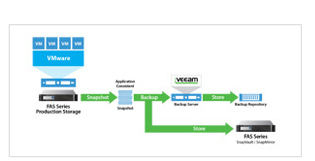
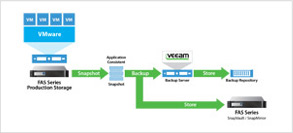
~70%

Changed region(s): [[0.0614, 0.0902, 0.9215, 0.9023], [0.0, 0.0, 1.0, 1.0]]

diff --git a/index.html b/index.html
@@ -78,26 +78,30 @@
       <div class="features_integration">
         <div class="container">
           <h2 id="anchor_integration">Explore the benefits of Veeam integration with NetApp</h2>
-          <p>Veeam’s enterprise-level, near-continuous data protection (near-CDP) delivers the best recovery time and point objectives (RTPO<sup>™</sup>) for all applications in VMware vSphere environments. The combination of NetApp’s low RPO capabilities and Veeam’s low RTO enablement allows users to:</p>
+          <p>Veeam’s <b>enterprise-level, near-continuous data protection (near-CDP)</b> delivers the best recovery time and point objectives (RTPO<sup>™</sup>) for all applications in VMware vSphere environments. The combination of NetApp’s <b>low RPO</b> capabilities and Veeam’s <b>low RTO</b> enablement allows users to:</p>
           <div class="features_column">
             <ul>
               <li>Create backups from storage snapshots up to <b>20 times faster</b> than competitive offerings</li>
               <li>Improve DR protection by creating instant, secondary backups from storage snapshots</li>
             </ul>
-            <a class="preview_image" href="http://img.veeam.com/product_pages/v8/netapp_2_t.jpg">
-              <figure>
-                <img src="img/img_preview_001.jpg" width="315" height="161" alt="Components of a Veeam backup with FAS storager">
-                <figcaption>Components of a Veeam backup <br> with FAS storager</figcaption>
-              </figure>
-            </a>
-          </div>
+          </div>  
           <div class="features_column">
             <ul>
               <li>Recover individual items or entire VMs quickly and efficiently from <b>NetApp Snapshot<sup>®</sup></b>, <b>SnapMirror<sup>®</sup></b> and <b>SnapVault<sup>®</sup></b> with <b>Veeam Explorer<sup>™</sup> for Storage Snapshots</b></li>
             </ul>
+          </div>  
+          <div class="img_wrap">
+            <a class="preview_image" href="http://img.veeam.com/product_pages/v8/netapp_2_t.jpg">
+              <figure>
+                <img src="img/img_preview_001.jpg" width="293" height="133" alt="Components of a Veeam backup with FAS storager">
+                <figcaption>Components of a Veeam backup <br> with FAS storager</figcaption>
+              </figure>
+            </a>
+          </div> 
+          <div class="img_wrap">
             <a class="preview_image" href="http://img.veeam.com/product_pages/v8/netapp_1_t.jpg">
               <figure>
-                <img src="img/img_preview_002.jpg" width="315" height="161" alt="Veeam Explorer for Storage Snapshots">
+                <img src="img/img_preview_002.jpg" width="293" height="133" alt="Veeam Explorer for Storage Snapshots">
                 <figcaption>Veeam Explorer for Storage Snapshots</figcaption>
               </figure>
             </a>
@@ -115,58 +119,68 @@
               <li><b>A cloud ready platform</b> that enhances data availability by providing an efficient way to get backups off site to a service provider</li>
             </ul>
           </div>
-          <a class="preview_image" href="http://img.veeam.com/product_pages/v8/netapp_3.jpg">
+          <a class="preview_image big_preview" href="http://img.veeam.com/product_pages/v8/netapp_3.jpg">
             <figure>
               <img src="img/img_preview_003.jpg" width="911" height="315" alt="Ready for the Cloud">
               <figcaption>Ready for the Cloud</figcaption>
             </figure>
           </a>
-          <a class="link sprite_logo_link_video" href="http://fast.wistia.net/embed/iframe/w5k601c6f6?popover=true&ad=in-text-link">Watch video on how Veeam integrates with NetApp</a>
+          <div class="link_wrap">
+            <a class="link sprite_logo_link_video" href="http://fast.wistia.net/embed/iframe/w5k601c6f6?popover=true&ad=in-text-link">Watch video on how Veeam integrates with NetApp</a>
+          </div>
         </div>
       </div>
       <div class="features_backup">
         <div class="container">
           <h2 id="anchor_backup">Perform fast backups from NetApp Storage Snapshots</h2>
-          <div class="text_section">
-            <h3>Dramatically improve vSphere backup</h3>
+          <div class="text_section clearfix">
             <a class="preview_image" href="http://img.veeam.com/product_pages/v8/screenshots/220_san_snapshot_hl.png">
               <figure>
                 <img src="img/img_preview_004.jpg" width="292" height="266" alt="A job keeps a VM snapshot for only a brief moment, which results in instant VM snapshot commit">
                 <figcaption>A job keeps a VM snapshot for only a brief moment, which results in instant VM snapshot commit</figcaption>
               </figure>
-            </a>
-            <p>Taking VMware vSphere snapshots can produce a serious burden on virtual machine (VM) performance, and it can take considerable effort by administrators to overcome this technical challenge and meet the required SLAs.</p>
-            <p>Veeam dramatically improves this process, providing built-in integration with your production storage, leveraging storage snapshot functionality to reduce the impact on the environment from vSphere snapshot removal during backup and replication.</p>
-            <p>Don’t be stuck with once-a-day backups for I/O intensive workloads—make backups and replicas as often as every 15 minutes!</p>
-            <a class="link sprite_logo_link_video" href="http://fast.wistia.net/embed/iframe/w5k601c6f6?popover=true&ad=in-text-link">Watch video on how Veeam integrates with NetApp</a>
-            <a class="link sprite_logo_link_video" href="#">Watch video about Veeam solution for HP StoreVirtual VSA</a>
+            </a> 
+            <div class="text_wrap">
+              <h3>Dramatically improve vSphere backup</h3>
+              <p>Taking VMware vSphere snapshots can produce a serious burden on virtual machine (VM) performance, and it can take considerable effort by administrators to overcome this technical challenge and meet the required SLAs.</p>
+              <p>Veeam dramatically improves this process, providing built-in integration with your production storage, leveraging storage snapshot functionality to reduce the impact on the environment from vSphere snapshot removal during backup and replication.</p>
+              <p>Don’t be stuck with once-a-day backups for I/O intensive workloads—make backups and replicas as often as every 15 minutes!</p>
+              <div class="link_wrap">
+                <a class="link sprite_logo_link_video" href="http://fast.wistia.net/embed/iframe/w5k601c6f6?popover=true&ad=in-text-link">Watch video on how Veeam integrates with NetApp</a>
+                <a class="link sprite_logo_link_video" href="#">Watch video about Veeam solution for HP StoreVirtual VSA</a>
+              </div>
+            </div>
           </div>
-          <div class="text_section">
-            <h3>Fast vSphere backups with low RPOs</h3>
+          <div class="text_section clearfix">
             <a class="preview_image" href="https://www.veeam.com/backup-from-storage-snapshots.html">
               <figure>
                 <img src="img/video_poster_002.jpg" width="294" height="167" alt="Veeam Explorer for Storage Snapshots">
                 <figcaption>Veeam Explorer for Storage Snapshots</figcaption>
               </figure>
-            </a>
-            <p>Storage snapshots can be taken frequently with minimal impact to the production environment, but this can’t be your only backup solution. What if storage itself goes down, or gets corrupted? Even with storage-based replication, you need to take your data out of the single fault domain. This is why many customers prefer to additionally make true backups stored on different storage.</p>
-            <p>Veeam combines best of both worlds with vSphere snapshots for application-consistent backups and storage snapshots for fast recovery point objectives (RPOs). Now you can:</p>
-            <ul>
-              <li>Run backups at any time and frequency, dramatically improving achievable RPOs</li>
-              <li>Speed up the process—back up from storage snapshots up to 20x faster than with competitive solutions</li>
-              <li>Dramatically reduce the impact of backup activities on your production environment</li>
-            </ul>
-            <a class="link sprite_logo_link_blog" href="">Read blog post about Veeam and NetApp</a>
+            </a> 
+            <div class="text_wrap">
+              <h3>Fast vSphere backups with low RPOs</h3>
+              <p>Storage snapshots can be taken frequently with minimal impact to the production environment, but this can’t be your only backup solution. What if storage itself goes down, or gets corrupted? Even with storage-based replication, you need to take your data out of the single fault domain. This is why many customers prefer to additionally make true backups stored on different storage.</p>
+              <p>Veeam combines best of both worlds with vSphere snapshots for application-consistent backups and storage snapshots for fast recovery point objectives (RPOs). Now you can:</p>
+              <ul>
+                <li>Run backups at any time and frequency, dramatically improving achievable RPOs</li>
+                <li>Speed up the process—back up from storage snapshots up to 20x faster than with competitive solutions</li>
+                <li>Dramatically reduce the impact of backup activities on your production environment</li>
+              </ul>
+              <div class="link_wrap">
+                <a class="link sprite_logo_link_blog" href="">Read blog post about Veeam and NetApp</a>
+              </div>
+            </div>
           </div>
-          <div class="text_section">
-            <div class="text_box">
+          <div class="text_section clearfix">
+            <a class="preview_image" href="http://img.veeam.com/product_pages/v8/bfss-scheme-t.jpg">
+              <figure>
+                <img src="img/img_preview_005.jpg" width="294" height="160" alt="Veeam Explorer for Storage Snapshots">
+                <figcaption>Veeam Explorer for Storage Snapshots</figcaption>
+              </figure>
+            </a> 
+            <div class="text_wrap">
               <h3>How it works</h3>
-              <a class="preview_image" href="http://img.veeam.com/product_pages/v8/bfss-scheme-t.jpg">
-                <figure>
-                  <img src="img/img_preview_005.jpg" width="294" height="160" alt="Veeam Explorer for Storage Snapshots">
-                  <figcaption>Veeam Explorer for Storage Snapshots</figcaption>
-                </figure>
-              </a>
               <p>Veeam Backup & Replication works with HP and NetApp storage products to create backups and replicas from storage snapshots in the following way. The backup/replica job:</p>
               <ol type="1">
                 <li>Analyzes which VMs in the job have disks on supported storage.</li>
@@ -187,27 +201,31 @@
         <div class="container">
           <h2 id="anchor_recovery">Enjoy quick granular recovery for NetApp Storage Snapshots</h2>
           <div class="text_section">
-            <h3>Restore from a storage snapshot in minutes!</h3>
             <a class="preview_image" href="http://img.veeam.com/product_pages/v8/screenshots/san_IR.png">
               <figure>
                 <img src="img/img_preview_006.jpg" width="293" height="177" alt="Veeam Explorer for Storage Snapshots">
                 <figcaption>Veeam Explorer for Storage Snapshots</figcaption>
               </figure>
             </a>
-            <p>With Veeam Explorer for Storage Snapshots, you can take advantage of the low overhead that periodic SAN snapshots offer for low recovery point objectives (RPOs), and let Veeam Backup & Replication<sup>™</sup> automate the whole recovery process for you, bringing you low recovery time objectives (RTOs) as well. You can:</p>
-            <ul>
-              <li>Recover guest OS files (for Windows, Linux, Novell , etc.), application items or an entire VM from a storage snapshot in two minutes or less</li>
-              <li>Restore directly from storage snapshots, eliminating the need for staging and intermediate restores</li>
-              <li>Reduce the time needed to mount snapshots 10 times or more compared to manual processes, lowering your RTOs while avoiding human errors that can occur during critical recovery steps such as mounting snapshots</li>
-            </ul>
-            <p>With Veeam Explorer for Storage Snapshots, you can take advantage of the low overhead that periodic SAN snapshots offer for low recovery point objectives (RPOs), and let Veeam Backup & Replication<sup>™</sup> automate the whole recovery process for you, bringing you low recovery time objectives (RTOs) as well. You can:</p>
-            <a class="link sprite_logo_link_video" href="http://fast.wistia.net/embed/iframe/w5k601c6f6?popover=true&ad=in-text-link">Watch video on how Veeam integrates with NetApp</a>
-            <a class="link sprite_logo_link_blog" href="#">Read blog post about Veeam and NetApp</a>
+            <div class="text_wrap">
+              <h3>Restore from a storage snapshot in minutes!</h3>
+              <p>With Veeam Explorer for Storage Snapshots, you can take advantage of the low overhead that periodic SAN snapshots offer for low recovery point objectives (RPOs), and let Veeam Backup & Replication<sup>™</sup> automate the whole recovery process for you, bringing you low recovery time objectives (RTOs) as well. You can:</p>
+              <ul>
+                <li>Recover guest OS files (for Windows, Linux, Novell , etc.), application items or an entire VM from a storage snapshot in two minutes or less</li>
+                <li>Restore directly from storage snapshots, eliminating the need for staging and intermediate restores</li>
+                <li>Reduce the time needed to mount snapshots 10 times or more compared to manual processes, lowering your RTOs while avoiding human errors that can occur during critical recovery steps such as mounting snapshots</li>
+              </ul>
+              <p>With Veeam Explorer for Storage Snapshots, you can take advantage of the low overhead that periodic SAN snapshots offer for low recovery point objectives (RPOs), and let Veeam Backup & Replication<sup>™</sup> automate the whole recovery process for you, bringing you low recovery time objectives (RTOs) as well. You can:</p>
+              <div class="link_wrap">
+                <a class="link sprite_logo_link_video" href="http://fast.wistia.net/embed/iframe/w5k601c6f6?popover=true&ad=in-text-link">Watch video on how Veeam integrates with NetApp</a>
+                <a class="link sprite_logo_link_blog" href="#">Read blog post about Veeam and NetApp</a>
+              </div>
+            </div>
           </div>
           <div class="text_section">
             <h3>How it works</h3>
             <p>Veeam works with HP and NetApp storage products to granular recovery from storage snapshots. Here’s how it works.</p>
-            <a class="preview_image" href="https://go.veeam.com/storage-snapshots-explorer.html">
+            <a class="preview_image big_preview" href="https://go.veeam.com/storage-snapshots-explorer.html">
               <figure>
                 <img src="img/img_preview_007.jpg" width="909" height="336" alt="How it works">
                 <figcaption>How it works</figcaption>

diff --git a/css/style.css b/css/style.css
@@ -9,17 +9,31 @@ body {
   font-family: "Open Sans", sans-serif;
 }
 
-p {
-  font-size: 18px;
-  font-weight: normal;
-  line-height: 28px;
-}
-
 p,
 h1,
 h2,
 h3 {
   margin: 0;
+}
+
+h2 {
+  margin: 30px 0;
+  color: #444;
+}
+
+h3 {
+  margin: 5px 0;
+  
+  font-size: 14px;
+  font-weight: bold;
+  line-height: 36px;
+  color: #444;
+}
+
+p {
+  font-size: 14px;
+  font-weight: normal;
+  line-height: 21px;
 }
 
 .container {
@@ -271,6 +285,13 @@ h3 {
   background-color: #f13037;
 }
 
+.download_section_form button:hover {
+  background-color: #bd1319;  
+}
+
+.download_section_form button:active {
+  background-color: #bd4246;  
+}
 
 .header_bottom_info {
   padding-top: 43px;
@@ -307,6 +328,9 @@ h3 {
 
 .header_bottom_info p {
   margin-bottom: 20px;
+  
+  font-size: 18px;
+  line-height: 28px;
 }
 
 
@@ -314,6 +338,9 @@ h3 {
 
 .features_navigation {
   min-height: 77px;
+  
+  margin-bottom: 60px;
+  
   border: 1px solid rgba(0, 0, 1, 0.08);
   box-shadow: 0 2px 3px rgba(0, 0, 1, 0.12);
 }
@@ -364,4 +391,110 @@ h3 {
 .features_navigation .download_link a:hover {
   color: #3d54a0;
   border-bottom: 2px solid #3d54a0;
+}
+
+
+.features_integration {
+  margin-top: 30px;
+  padding-bottom: 30px;
+  
+  font-size: 0;
+}
+
+.features_integration h2 {
+  font-size: 24px;
+  line-height: 36px;
+}
+
+.features_column {
+  display: inline-block;
+  vertical-align: top;
+  
+  width: 50%;
+  
+  font-size: 14px;
+  line-height: 21px;
+  font-weight: normal;
+}
+
+.features_column ul {
+  margin-top: 15px;
+  margin-bottom: 20px;
+}
+
+.features_integration li,
+.features_backup li, 
+.features_recovery li {
+  margin: 8px 0;
+}
+
+.features_integration .img_wrap {
+  display: inline-block;
+  vertical-align: top;
+  text-align: center;
+  
+  width: 50%;
+  
+  margin-top: 20px;
+  margin-bottom: 35px;
+}
+
+.big_preview figcaption {
+  text-align: left;
+}
+
+main .link_wrap {
+  margin-top: 20px;
+  margin-bottom: 20px;
+  
+  width: 470px;
+}
+
+main .link_wrap a {
+  display: block;
+}
+
+.features_backup {
+  padding-top: 30px;
+  padding-bottom: 60px;
+  
+  background-color: #e5e9ee;
+}
+
+.features_backup .text_section {
+  padding-bottom: 80px;
+  margin-bottom: 45px;
+  border-bottom: 2px solid #cfd4db;
+}
+
+.features_backup .text_section:last-child {
+  padding-bottom: 0;
+  margin-bottom: 0;
+  border-bottom: none;
+}
+
+.features_backup .preview_image:not(.big_preview),
+.features_recovery .preview_image:not(.big_preview) {
+  float: right;
+  max-width: 294px;
+  margin-top: 15px;
+  margin-left: 40px;
+}
+
+.features_backup p,
+.features_recovery p {
+  margin: 10px 0;
+}
+
+.features_backup ol li {
+  margin: 13px 0;
+}
+
+.features_recovery {
+  padding-top: 30px;
+  padding-bottom: 60px;
+}
+
+.text_wrap {
+  width: 600px;
 }
